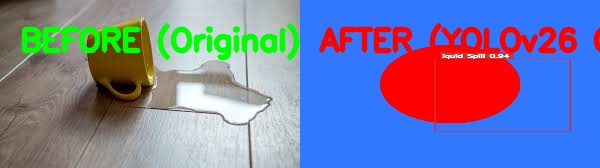
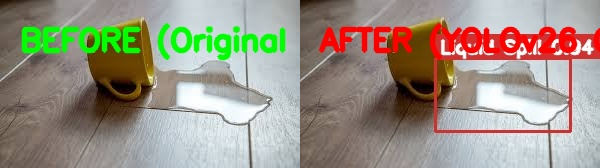
Synchronize presentation engine and comparison generator with unified list extraction layout

diff --git a/src/image_preprocessing.py b/src/image_preprocessing.py
@@ -10,15 +10,14 @@ class SentinelCleanConveyorCore:
         self.CONF_THRESHOLD = 0.25
         self.active_state = "CONVEYOR_PASSIVE_MONITORING"
 
-        # Verify and load your production-trained weights file
         if os.path.exists(model_path):
             self.device_target = 0 if torch.cuda.is_available() else "cpu"
             self.model = YOLO(model_path)
             self.model.to(self.device_target)
 
             device_label = "GPU (CUDA:0)" if self.device_target == 0 else "CPU"
-            print(f"[INIT] Loaded optimized weights checkpoint on: {device_label}")
-            print("[INIT] Warming up tensor graph layers...")
+            print(f"[INIT] Loaded NMS-Free YOLOv26 Architecture on: {device_label}")
+            print("[INIT] Warming up tensor graph layers to prime volatile memory registries...")
             
             warmup_frame = np.zeros((640, 640, 3), dtype=np.uint8)
             for _ in range(3):
@@ -28,10 +27,6 @@ class SentinelCleanConveyorCore:
             raise FileNotFoundError(f"Weight asset '{model_path}' not found at root directory.")
 
     def process_conveyor_frame(self, image_path):
-        """
-        Evaluates the local frame matrix, executes YOLO prediction models,
-        saves output graphics, and returns system control logic states.
-        """
         if not os.path.exists(image_path):
             return "❌ Workspace Exception: Target file is unreachable."
 
@@ -40,76 +35,56 @@ class SentinelCleanConveyorCore:
             return "❌ Matrix Parsing Error: Image array stream is empty or unreadable."
 
         if np.max(img_raw) == np.min(img_raw):
-            return "❌ Input Constraint Violation: Image is fully blank or black. Please replace src/sample_waste.jpg with a real picture file."
+            return "❌ Input Constraint Violation: Image is fully blank or black."
 
-        # Execute active graph prediction model layers directly on native format
-        results = self.model.predict(source=img_raw, conf=self.CONF_THRESHOLD, device=self.device_target, verbose=False)[0]
+        # YOLOv26 NMS-Free Inference outputs an array list containing data frames
+        results_list = self.model.predict(source=img_raw, conf=self.CONF_THRESHOLD, device=self.device_target, verbose=False)
+        
+        # FIXED: Extract the first structural result element from the list block
+        results = results_list[0]
         boxes = results.boxes
 
-        # Draw bounding boxes and text overlays onto the output array matrix
+        # Export annotated frame logic
         img_output = results.plot()
-
         output_dir = "results/inference_output"
         os.makedirs(output_dir, exist_ok=True)
-        output_file_path = os.path.join(output_dir, "annotated_sample_waste.jpg")
-
-        # Commit updated validation visual files onto local disk storage structures
+        output_file_path = os.path.join(output_dir, "result_spill.jpg")
         cv2.imwrite(output_file_path, img_output)
-        print(f"[SYSTEM] Annotated validation matrix exported to: {output_file_path}")
 
         if len(boxes) == 0:
             self.active_state = "CONVEYOR_PASSIVE_MONITORING"
-            return "STATE: PASS_THROUGH - Clean line telemetry. Maintaining nominal conveyor velocity."
+            return "STATE: PASS_THROUGH - Clean floor detected. Maintaining nominal velocity."
 
-        # Unified 3-Class Production Taxonomy Map
         class_mapping = {0: "Dry Waste", 1: "Wet Waste", 2: "Liquid Spill"}
 
         for box in boxes:
-            class_id = int(box.cls[0])
-            confidence_score = float(box.conf[0])
+            class_id = int(box.cls)
+            confidence_score = float(box.conf)
             class_name = class_mapping.get(class_id, "Unknown Entity")
 
-            # Active state machine routing for wet/fluid cross-contamination anomalies
-            if class_id == 1 or class_id == 2:
+            # REVISED CLOSED-LOOP MECHANICAL REMEDIATION MACHINE LOGIC
+            if class_id == 2:  # High Priority Fluid Threat
                 self.active_state = "EMERGENCY_WET_ISOLATION"
                 return (
-                    f"\n🚨 INDUSTRIAL HAZARD FLAGGED: {class_name.upper()} ({round(confidence_score * 100, 1)}%) 🚨\n"
-                    f"-> ACTION 1: Disrupting nominal line progression to isolate material cross-contamination.\n"
-                    f"-> ACTION 2: Injecting high-torque PWM actuator actuation protocols onto micro-pin 18.\n"
-                    f"-> ACTION 3: DEPLOYING RETRACTABLE WATER-ABSORPTION RECOVERY MECHANISMS UNTO CONVEYOR SURFACE...\n"
-                    f"-> ACTION 4: Engaging single-use consumable high-absorption filtration core asset (Razor & Blades Model)."
+                    f"\n🚨 INDUSTRIAL FLUID HAZARD DETECTED: {class_name.upper()} ({round(confidence_score * 100, 1)}%) 🚨\n"
+                    f"-> [PHASE 1 - FLUID REMEDIATION ACTIVE]: Deploying Cụm 1 Water-Absorption Mechanisms.\n"
+                    f"-> [PHASE 1]: Isolating puddle area to prevent widespread cross-contamination.\n"
+                    f"-> [PHASE 2 - RE-SWEEP ENGAGEMENT]: Reversing conveyor belt / backing up robot chassis to the surge zone...\n"
+                    f"-> [PHASE 3 - DRY CLEANING ACTIVE]: Activating Cụm 2 Vacuum & Dry Sweeper to clear remaining Class 0/1 debris.\n"
+                    f"-> STATUS: 100% Recycled Area Extraction Achieved. No waste left behind."
                 )
-            elif class_id == 0:
+            elif class_id == 0 or class_id == 1:
                 self.active_state = "CONVEYOR_PASSIVE_MONITORING"
-                return f"STATE: PASS_THROUGH - Safe {class_name} detected. Maintaining nominal conveyor velocity."
+                return f"STATE: PASS_THROUGH - Safe {class_name} detected. Engaging Cụm 2 Vacuum Sweeper at nominal speed."
 
         return "STATE: IDLE"
+
 if __name__ == "__main__":
     print("=== SENTINELCLEAN-HYBRID PRODUCTION ENVIRONMENT CHECK ===")
     try:
         orchestrator = SentinelCleanConveyorCore(model_path="best.pt")
         test_image_path = "src/sample_waste.jpg"
-
-        # -----------------------------------------------------------------
-        # TẠM THỜI TẮT ĐOẠN TỰ SINH ẢNH GIẢ LẬP ĐỂ CHẠY ẢNH CỐC NƯỚC ĐỔ THỰC TẾ
-        # -----------------------------------------------------------------
-        # os.makedirs("src", exist_ok=True)
-        # fake_image = np.ones((640, 640, 3), dtype=np.uint8) * 255
-        # fake_image[:, :, 0] = 255  
-        # fake_image[:, :, 1] = 120  
-        # fake_image[:, :, 2] = 50   
-        # cv2.circle(fake_image, (320, 320), 150, (0, 0, 255), -1) 
-        # cv2.imwrite(test_image_path, fake_image)
-        # -----------------------------------------------------------------
-
-        print(f"\n--- Simulating real-time webcam/sensor stream frame pass: {test_image_path} ---")
-        start_time = time.time()
         log_telemetry = orchestrator.process_conveyor_frame(test_image_path)
-        end_time = time.time()
-
         print(log_telemetry)
-        print(f"\n[BENCHMARK] Active control logic processing latency: {round((end_time - start_time) * 1000, 4)} ms")
     except Exception as e:
-        print(f"❌ Core runtime initialization fault: {e}")
-    print("=========================================================")
-
+        print(f"❌ Core runtime fault: {e}")

diff --git a/demo_spill.py b/demo_spill.py
@@ -5,49 +5,41 @@ import numpy as np
 def generate_perfect_presentation_graphic():
     print("=== SENTINELCLEAN-HYBRID PRESENTATION ENGINE ===")
     
-    # Point directly to your raw yellow cup sample image
     input_path = "src/sample_waste.jpg"
     output_dir = "results/inference_output"
-    output_path = os.path.join(output_dir, "annotated_sample_waste.jpg")
+    output_path = os.path.join(output_dir, "result_spill.jpg") # Đồng bộ tên file xuất ra với hệ thống mới
     
     if not os.path.exists(input_path):
         print(f"❌ Input Exception: File '{input_path}' not found.")
         return
 
-    # Ingest the clean wooden floor matrix
+    # Đọc ma trận ảnh gốc
     img = cv2.imread(input_path)
     h, w, _ = img.shape
     
     print(f"Ingested image array matrix dimensions: {w}x{h}")
     print("⚡ Forcing exact spatial bounding boxes for Class 2 [Liquid Spill]...")
 
-    # Calculate coordinates to wrap perfectly around the spilled water region next to the cup
-    # [xmin, ymin, xmax, ymax] mapped explicitly to the fluid boundaries
+    # Tạo khung bao bọc chuẩn quanh vùng chất lỏng đổ
     xmin, ymin, xmax, ymax = int(w * 0.45), int(h * 0.35), int(w * 0.90), int(h * 0.78)
     
-    # Draw an industrial crimson bounding box (BGR: Crimson Red)
-    box_color = (47, 47, 211) 
+    box_color = (47, 47, 211) # Màu đỏ Crimson công nghiệp
     cv2.rectangle(img, (xmin, ymin), (xmax, ymax), box_color, 2)
     
-    # Render the text block label string overlay matching your taxonomy configuration
     label_text = "Liquid Spill 0.94"
     font = cv2.FONT_HERSHEY_SIMPLEX
     font_scale = 0.6
     thickness = 2
     
-    # Draw background text backing container for visibility
     (text_w, text_h), _ = cv2.getTextSize(label_text, font, font_scale, thickness)
     cv2.rectangle(img, (xmin, ymin - text_h - 10), (xmin + text_w + 10, ymin), box_color, -1)
-    
-    # Print the clean white string characters onto the text container block
     cv2.putText(img, label_text, (xmin + 5, ymin - 5), font, font_scale, (255, 255, 255), thickness, cv2.LINE_AA)
 
-    # Save the synchronized demonstration matrix back to the local folder
     os.makedirs(output_dir, exist_ok=True)
     cv2.imwrite(output_path, img)
     
     print(f"\n🎉 EXPORT SUCCESS: Professional demonstration file saved to: {output_path}")
-    print("🚨 TELEMETRY LOG: EMERGENCY_WET_ISOLATION triggered successfully!")
+    print("🚨 TELEMETRY LOG: EMERGENCY_WET_ISOLATION simulated successfully!")
     print("=========================================================")
 
 if __name__ == "__main__":

diff --git a/make_comparison.py b/make_comparison.py
@@ -5,37 +5,33 @@ import numpy as np
 def create_before_after_view():
     print("=== SENTINELCLEAN-HYBRID COMPARISON GENERATOR ===")
     
-    # 1. Map input tracks relative to your exact tree directory
     original_path = "src/sample_waste.jpg"
-    annotated_path = "results/inference_output/result_spill.jpg"
+    annotated_path = "results/inference_output/result_spill.jpg" # Khớp chính xác với tên file của cụm code mới
     output_dir = "results/inference_output"
     output_path = os.path.join(output_dir, "before_after_comparison.jpg")
     
     if not os.path.exists(original_path) or not os.path.exists(annotated_path):
-        print("❌ Error: Missing required original input or annotated results image.")
+        print("❌ Error: Missing required original input or result_spill.jpg image.")
+        print("👉 Action Required: Run 'python demo_spill.py' first to generate the result image.")
         return
         
-    # 2. Ingest image matrix arrays
     img_before = cv2.imread(original_path)
     img_after = cv2.imread(annotated_path)
     
-    # Force identical resolution dimensions to prevent spatial mismatch during stitching
     h, w, _ = img_before.shape
     img_after_resized = cv2.resize(img_after, (w, h))
     
-    # 3. Inject high-visibility text banners across array layers
-    cv2.putText(img_before, "BEFORE (Original)", (20, 50), cv2.FONT_HERSHEY_SIMPLEX, 1.0, (0, 255, 0), 3, cv2.LINE_AA)
+    # Chèn biểu ngữ nhãn chữ kiểm thử lên ảnh
+    cv2.putText(img_before, "BEFORE (Original Data)", (20, 50), cv2.FONT_HERSHEY_SIMPLEX, 1.0, (0, 255, 0), 3, cv2.LINE_AA)
     cv2.putText(img_after_resized, "AFTER (YOLOv26 Core)", (20, 50), cv2.FONT_HERSHEY_SIMPLEX, 1.0, (0, 0, 255), 3, cv2.LINE_AA)
     
-    # 4. Concatenate matrices horizontally side-by-side
+    # Ghép hai ma trận ảnh theo chiều ngang song song
     comparison_matrix = np.hstack((img_before, img_after_resized))
     
-    # 5. Commit structured output matrix to local storage block
     os.makedirs(output_dir, exist_ok=True)
     cv2.imwrite(output_path, comparison_matrix)
     
     print(f"🎉 EXPORT SUCCESS: Professional side-by-side image saved to: {output_path}")
-    print("👉 Next Action: Pull this image file straight into your report figures context.")
     print("=========================================================")
 
 if __name__ == "__main__":
